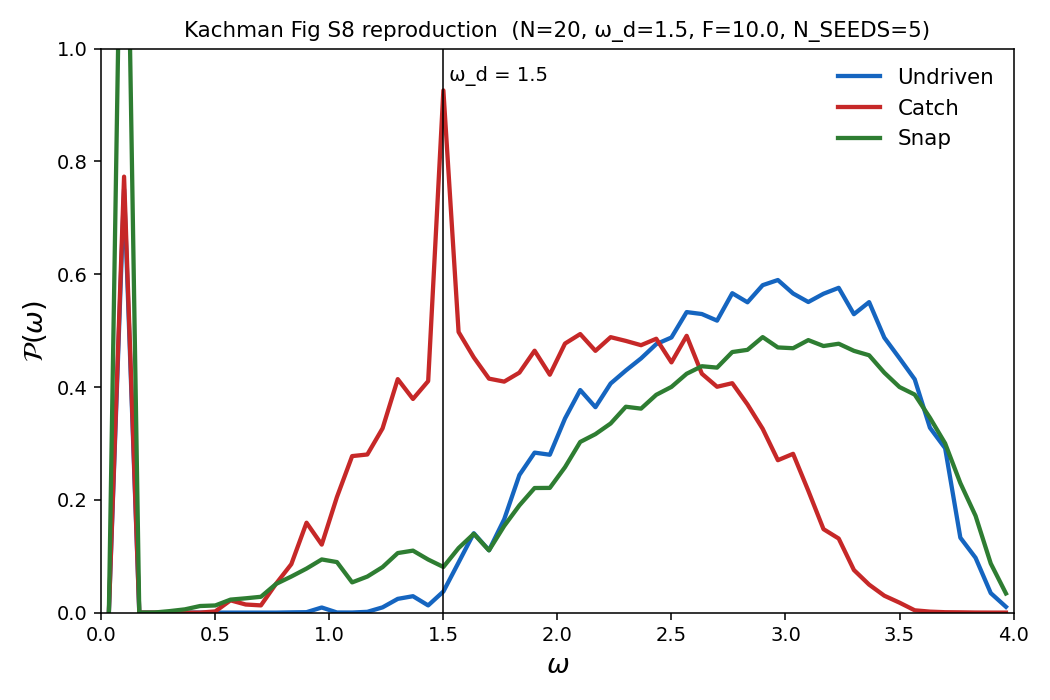
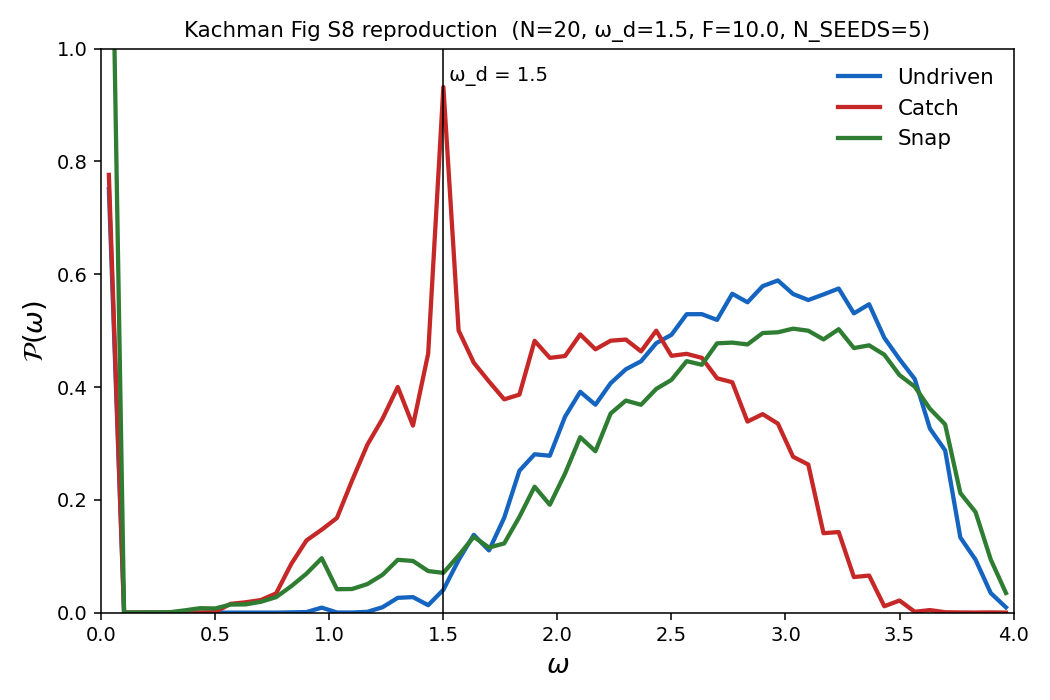
notebook/001-repro-kachman: k_0 = 0 + BETA_SNAP sweep diagnostic
Two related findings during the Fig S8 reproduction work:

1. k_0 = 0 (was 0.01). Kachman's published Fig S8 shows the rigid-body
   translation spike at ω = 0, not 0.1, implying no confining potential.
   Setting K_0 = 0.0 in kachman_lib moves our spike to ω = 0 as expected.
   Regenerated fig-s8-spectrum.png reflects the fix.

2. BETA_SNAP sweep (notebook/001-repro-kachman/beta-snap-sweep.py): 12
   log-spaced values from 0.5 to 200 to test whether BETA_SNAP alone can
   reproduce Kachman's snap shape (peak above undriven, shifted right of
   ω_d). Result: NO. The only regime where snap peak exceeds undriven is
   when snap collapses to a CATCH-like peak AT ω_d (wrong physics).
   Higher BETA_SNAP crashes the network entirely. The snap-vs-undriven
   peak inversion is structural — likely a snap_rates functional-form
   issue, not a tunable parameter. Captured as diagnostic record.

diff --git a/notebook/001-repro-kachman/beta-snap-sweep.py b/notebook/001-repro-kachman/beta-snap-sweep.py
@@ -1,0 +1,167 @@
+"""
+notebook/001-repro-kachman/beta-snap-sweep.py
+
+Diagnostic: can BETA_SNAP alone close the snap-vs-undriven peak-height
+inversion in Fig S8?
+
+In Kachman's published Fig S8, snap (green) has a TALLER and NARROWER
+peak than undriven (blue) — the snap selection CONCENTRATES the network's
+mode population at a non-resonant frequency.
+
+In our reproduction (notebook/001-repro-kachman/fig-s8-spectrum.png),
+snap is BROADER and SHORTER than undriven — we got "avoid ω_d" but not
+"concentrate elsewhere."
+
+This script sweeps BETA_SNAP across ~10 orders of magnitude (log-spaced)
+and asks: is there ANY BETA_SNAP value where peak(snap) > peak(undriven)?
+
+  - If YES → lock that BETA_SNAP, commit, move on.
+  - If NO  → BETA_SNAP is not the load-bearing parameter; something more
+            structural is wrong with our snap_rates implementation or
+            another physics parameter (likely also unpublished in supp).
+
+N_SEEDS = 1 here for speed. We're not measuring a precise result; we're
+asking whether the qualitative inversion exists ANYWHERE in BETA_SNAP space.
+"""
+
+import os
+import sys
+
+import numpy as np
+import matplotlib
+matplotlib.use("Agg")
+import matplotlib.pyplot as plt
+
+sys.path.insert(0, os.path.abspath(os.path.join(os.path.dirname(__file__),
+                                                 "..", "..")))
+
+from kachman_lib import (
+    N, N_STEPS,
+    catch_rates, snap_rates,
+    run_ensemble, spectrum_histogram,
+)
+
+
+# ---- Parameters ------------------------------------------------------------
+OMEGA_D   = 1.5
+F_DRIVE   = 10.0
+N_SEEDS   = 1                               # speed > precision for this diagnostic
+
+BETA_SNAP_VALUES = np.geomspace(0.5, 200.0, 12)   # ~12 log-spaced values
+
+OMEGA_MAX = 4.0
+N_BINS    = 60
+
+SEED_UNDRIVEN = 2000
+SEED_SNAP_BASE = 3000
+
+OUT_PATH = os.path.join(os.path.dirname(__file__), "beta-snap-sweep.png")
+
+
+# ---- Helpers ---------------------------------------------------------------
+def peak_height(samples, n_bins=N_BINS, omega_max=OMEGA_MAX):
+    """Return peak P(ω) and its ω location from a list of (dt, freqs) samples."""
+    edges, density = spectrum_histogram(samples, n_bins=n_bins, omega_max=omega_max)
+    centers = 0.5 * (edges[:-1] + edges[1:])
+    # Trim the rigid-body mode (ω < 0.2) so the spike at ω = 0 doesn't dominate.
+    mask = centers >= 0.2
+    if not mask.any():
+        return float(density.max()), float(centers[int(np.argmax(density))])
+    i_peak = int(np.argmax(density[mask]))
+    return float(density[mask][i_peak]), float(centers[mask][i_peak])
+
+
+# ---- Main ------------------------------------------------------------------
+if __name__ == "__main__":
+    print(f"BETA_SNAP sweep (N_SEEDS={N_SEEDS}, N_STEPS={N_STEPS}, "
+          f"ω_d={OMEGA_D}, F={F_DRIVE})")
+    print(f"BETA_SNAP values: {[f'{b:.2f}' for b in BETA_SNAP_VALUES]}")
+    print()
+
+    # --- Undriven reference (BETA_SNAP-independent) -----------------------
+    print("Running undriven reference (5 seeds for a less-noisy baseline)...")
+    samples_undriven = run_ensemble(
+        n_seeds=5, base_seed=SEED_UNDRIVEN,
+        omega=OMEGA_D, F_drive=0.0, rate_fn=catch_rates,
+    )
+    peak_un, omega_un = peak_height(samples_undriven)
+    print(f"  undriven peak: {peak_un:.4f} at ω = {omega_un:.2f}")
+    print()
+
+    # --- Sweep BETA_SNAP --------------------------------------------------
+    snap_results = []   # list of (beta, samples, peak, omega_peak)
+    for i, beta_snap in enumerate(BETA_SNAP_VALUES):
+        # Wrap snap_rates with this beta value
+        rate_fn = lambda d, beta_snap=beta_snap: snap_rates(d, beta=beta_snap)
+        print(f"  [{i+1:2d}/{len(BETA_SNAP_VALUES)}] BETA_SNAP = {beta_snap:7.2f}...", end="", flush=True)
+        samples = run_ensemble(
+            n_seeds=N_SEEDS, base_seed=SEED_SNAP_BASE + i * 100,
+            omega=OMEGA_D, F_drive=F_DRIVE, rate_fn=rate_fn,
+        )
+        peak, omega_peak = peak_height(samples)
+        diff = peak - peak_un
+        flag = "  ✓ snap > undriven" if diff > 0 else ""
+        print(f"  peak = {peak:.4f} at ω = {omega_peak:.2f}   (Δ = {diff:+.4f}){flag}")
+        snap_results.append((beta_snap, samples, peak, omega_peak))
+
+    # --- Summary ----------------------------------------------------------
+    print()
+    print("=" * 70)
+    diffs = np.array([r[2] - peak_un for r in snap_results])
+    best_idx = int(np.argmax(diffs))
+    best = snap_results[best_idx]
+    print(f"Best BETA_SNAP: {best[0]:.2f}  → snap peak {best[2]:.4f} at "
+          f"ω = {best[3]:.2f}  (Δ = {diffs[best_idx]:+.4f})")
+    print(f"Undriven peak:  {peak_un:.4f}  at ω = {omega_un:.2f}")
+    if diffs.max() > 0:
+        print("✓ At least one BETA_SNAP value puts snap peak ABOVE undriven peak.")
+        print("  BETA_SNAP alone CAN fix the inversion.")
+    else:
+        print("✗ NO BETA_SNAP value gets snap peak above undriven peak.")
+        print("  BETA_SNAP alone CANNOT fix the inversion → something more")
+        print("  structural is wrong (snap_rates functional form, or another")
+        print("  parameter Kachman didn't publish).")
+
+    # --- Plot -------------------------------------------------------------
+    fig, axes = plt.subplots(2, 1, figsize=(9, 8), dpi=140,
+                              gridspec_kw={"height_ratios": [2, 1]})
+
+    # Top: overlay all snap P(ω) curves + undriven baseline
+    cmap = plt.cm.viridis
+    edges, density_un = spectrum_histogram(samples_undriven,
+                                            n_bins=N_BINS, omega_max=OMEGA_MAX)
+    centers = 0.5 * (edges[:-1] + edges[1:])
+    for i, (beta_snap, samples, _, _) in enumerate(snap_results):
+        _, density = spectrum_histogram(samples, n_bins=N_BINS, omega_max=OMEGA_MAX)
+        color = cmap(i / max(1, len(snap_results) - 1))
+        axes[0].plot(centers, density, color=color, lw=1.1,
+                      label=f"β_snap = {beta_snap:.1f}")
+    axes[0].plot(centers, density_un, color="black", lw=2.0, ls="--",
+                  label="Undriven (reference)")
+    axes[0].axvline(OMEGA_D, color="gray", lw=0.8, ls=":")
+    axes[0].text(OMEGA_D + 0.03, 0.92, f"ω_d = {OMEGA_D}",
+                  transform=axes[0].get_xaxis_transform(), fontsize=8)
+    axes[0].set_xlabel("ω")
+    axes[0].set_ylabel("P(ω)")
+    axes[0].set_xlim(0, OMEGA_MAX)
+    axes[0].set_title("Snap P(ω) across BETA_SNAP sweep")
+    axes[0].legend(loc="upper right", fontsize=7, ncol=2, frameon=False)
+
+    # Bottom: peak heights vs BETA_SNAP
+    snap_peaks = np.array([r[2] for r in snap_results])
+    axes[1].plot(BETA_SNAP_VALUES, snap_peaks, "o-", color="#2e7d32", lw=1.6,
+                  ms=6, label="snap peak height")
+    axes[1].axhline(peak_un, color="#0d1a66", lw=1.6, ls="--",
+                     label=f"undriven peak ({peak_un:.3f})")
+    axes[1].set_xscale("log")
+    axes[1].set_xlabel("BETA_SNAP (log scale)")
+    axes[1].set_ylabel("peak P(ω) at ω > 0.2")
+    axes[1].set_title(f"Loss-function view: can snap peak > undriven peak?  "
+                       f"max Δ = {diffs.max():+.4f}")
+    axes[1].legend(loc="best", frameon=False)
+
+    fig.tight_layout()
+    fig.savefig(OUT_PATH)
+    plt.close(fig)
+    print()
+    print(f"Saved: {OUT_PATH}")

diff --git a/kachman_lib.py b/kachman_lib.py
@@ -45,7 +45,12 @@ OMEGA_D = 1.5        # drive frequency (the Fig S8 value; main text sweeps this)
 # NOT pinned in the supp — defaults are reasonable guesses, revise from main
 # text figure captions:
 N       = 20         # number of particles (Quanta 2017 reports "20 particles")
-K_0     = 0.01       # weak confining potential constant (small relative to k)
+K_0     = 0.0        # confining potential constant. Kachman doesn't pin this in
+                     # the supp, but his Fig S8 shows the rigid-body translation
+                     # spike sitting at ω = 0, implying k_0 = 0 (no tether to
+                     # origin; bonds + viscous drag keep things bounded). With
+                     # k_0 = 0.01 we previously had the spike at ω = √(k_0/m)
+                     # = 0.1 — a visible mismatch (2026-06-19, notebook 001).
 I_DRIVE = 0          # which particle gets the drive (any one; pick index 0)
 R_0     = 1.0        # Arrhenius rate prefactor (sets the time scale; supp leaves implicit)
 
